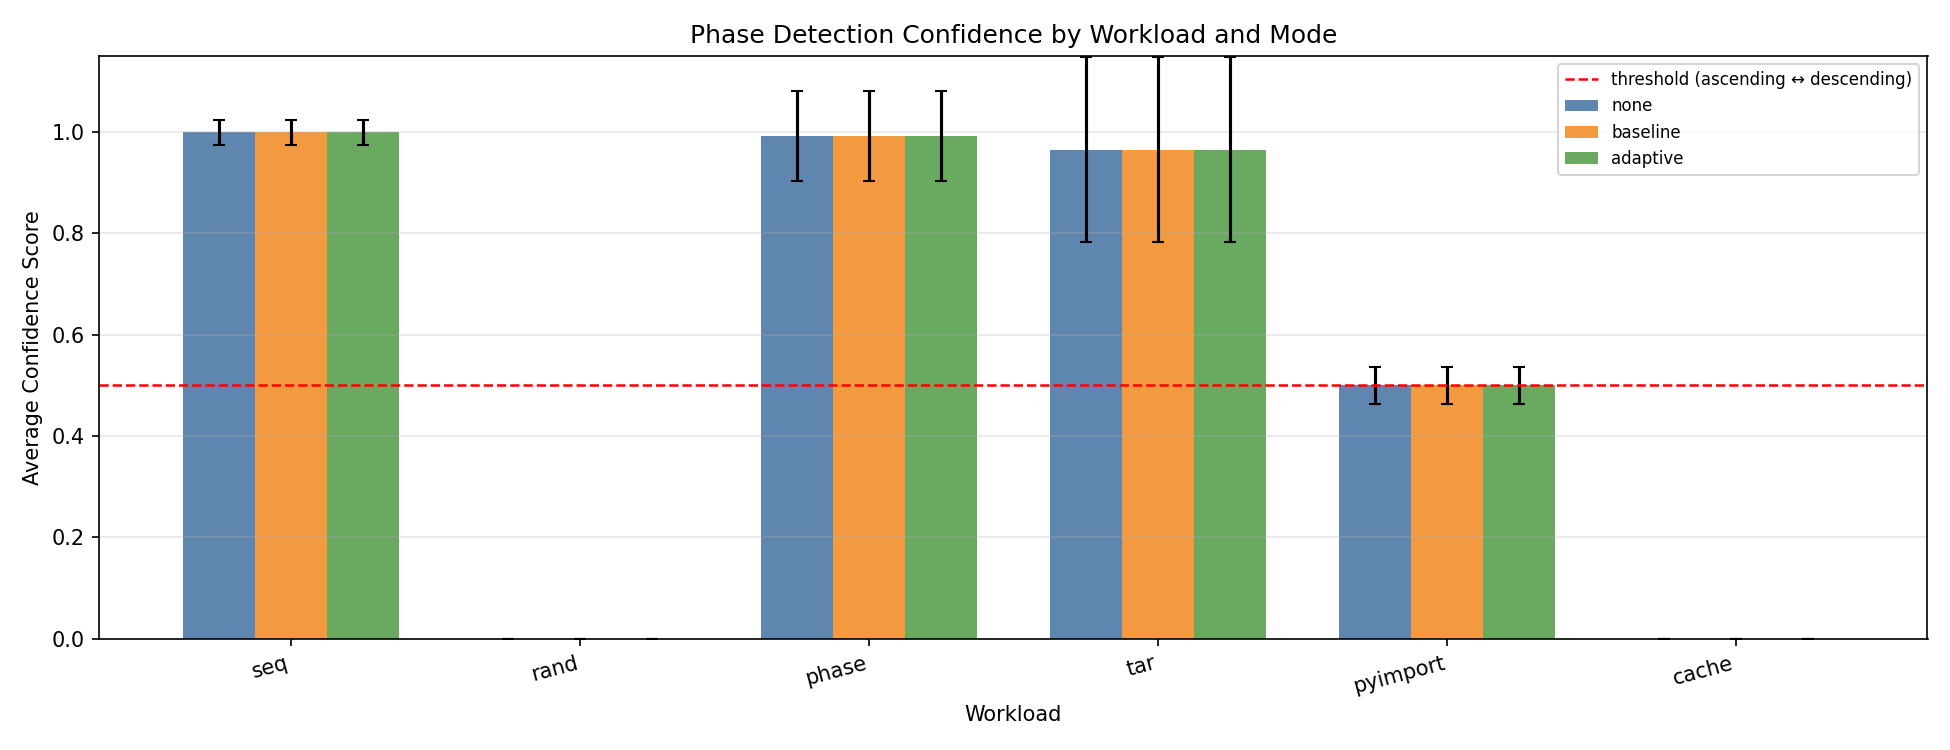
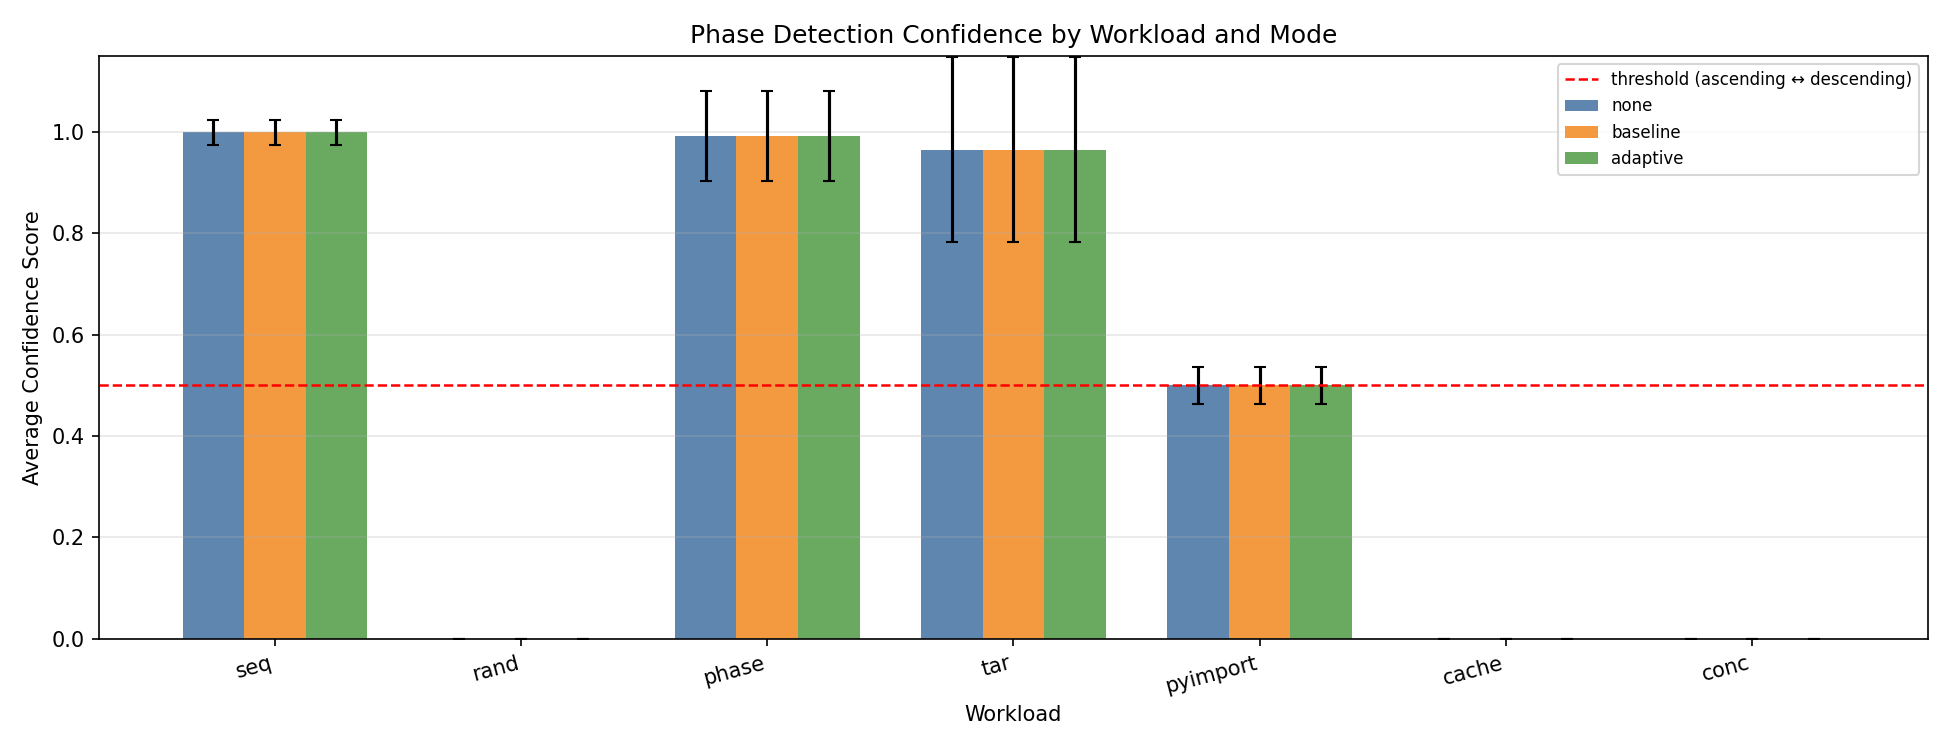
Add --platform flag, add concurrent to WORKLOADS/SHORT, regenerate all summaries and figures

diff --git a/Experiments/plot_results.py b/Experiments/plot_results.py
@@ -8,6 +8,7 @@ Reads:  results/{platform}/timing_summary.csv
 Outputs PNG figures to results/{platform}/figures/
 """
 
+import argparse
 import csv
 import os
 import platform
@@ -22,13 +23,18 @@ except ImportError:
     print("ERROR: matplotlib and numpy required. Run: pip install matplotlib numpy")
     sys.exit(1)
 
-PLATFORM = "apfs" if platform.system() == "Darwin" else "linux"
+_parser = argparse.ArgumentParser(add_help=False)
+_parser.add_argument("--platform", default=None)
+_args, _ = _parser.parse_known_args()
+
+PLATFORM = _args.platform or ("apfs" if platform.system() == "Darwin" else "linux")
 RESULTS_DIR = f"results/{PLATFORM}"
 FIGURES_DIR = os.path.join(RESULTS_DIR, "figures")
 
 WORKLOADS = [
     "sequential", "random", "phase_change",
     "tar_workload", "python_import", "cache_lookup_workload",
+    "concurrent",
 ]
 MODES  = ["none", "baseline", "adaptive"]
 DEPTHS = [1, 2, 4, 8]
@@ -48,6 +54,7 @@ SHORT = {
     "tar_workload":          "tar",
     "python_import":         "pyimport",
     "cache_lookup_workload": "cache",
+    "concurrent":            "conc",
 }
 
 

diff --git a/Experiments/result_summary.py b/Experiments/result_summary.py
@@ -1,5 +1,6 @@
 #!/usr/bin/env python3
 
+import argparse
 import csv
 import math
 import os
@@ -7,7 +8,11 @@ import platform
 import statistics
 from collections import defaultdict
 
-PLATFORM = "apfs" if platform.system() == "Darwin" else "linux"
+_parser = argparse.ArgumentParser(add_help=False)
+_parser.add_argument("--platform", default=None)
+_args, _ = _parser.parse_known_args()
+
+PLATFORM = _args.platform or ("apfs" if platform.system() == "Darwin" else "linux")
 RESULTS_DIR = f"results/{PLATFORM}"
 NATIVE_DIR = os.path.join(RESULTS_DIR, "native")
 DEPTH_DIR = os.path.join(RESULTS_DIR, "depth")
@@ -35,6 +40,7 @@ WORKLOADS = [
     "tar_workload",
     "python_import",
     "cache_lookup_workload",
+    "concurrent",
 ]
 DEPTHS = [1, 2, 4, 8]
 
